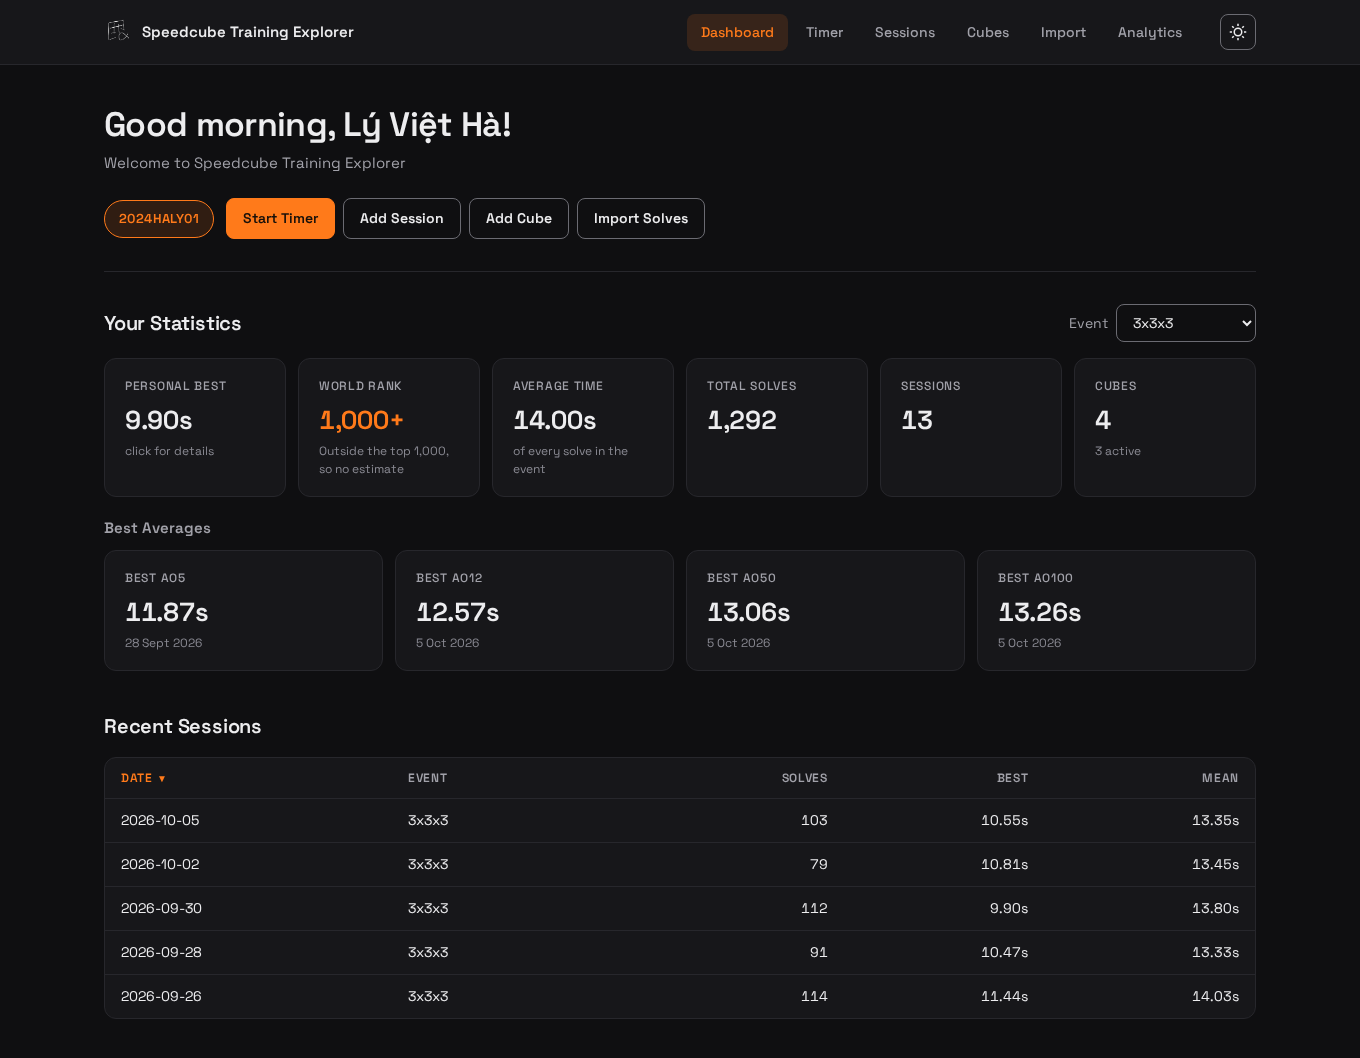
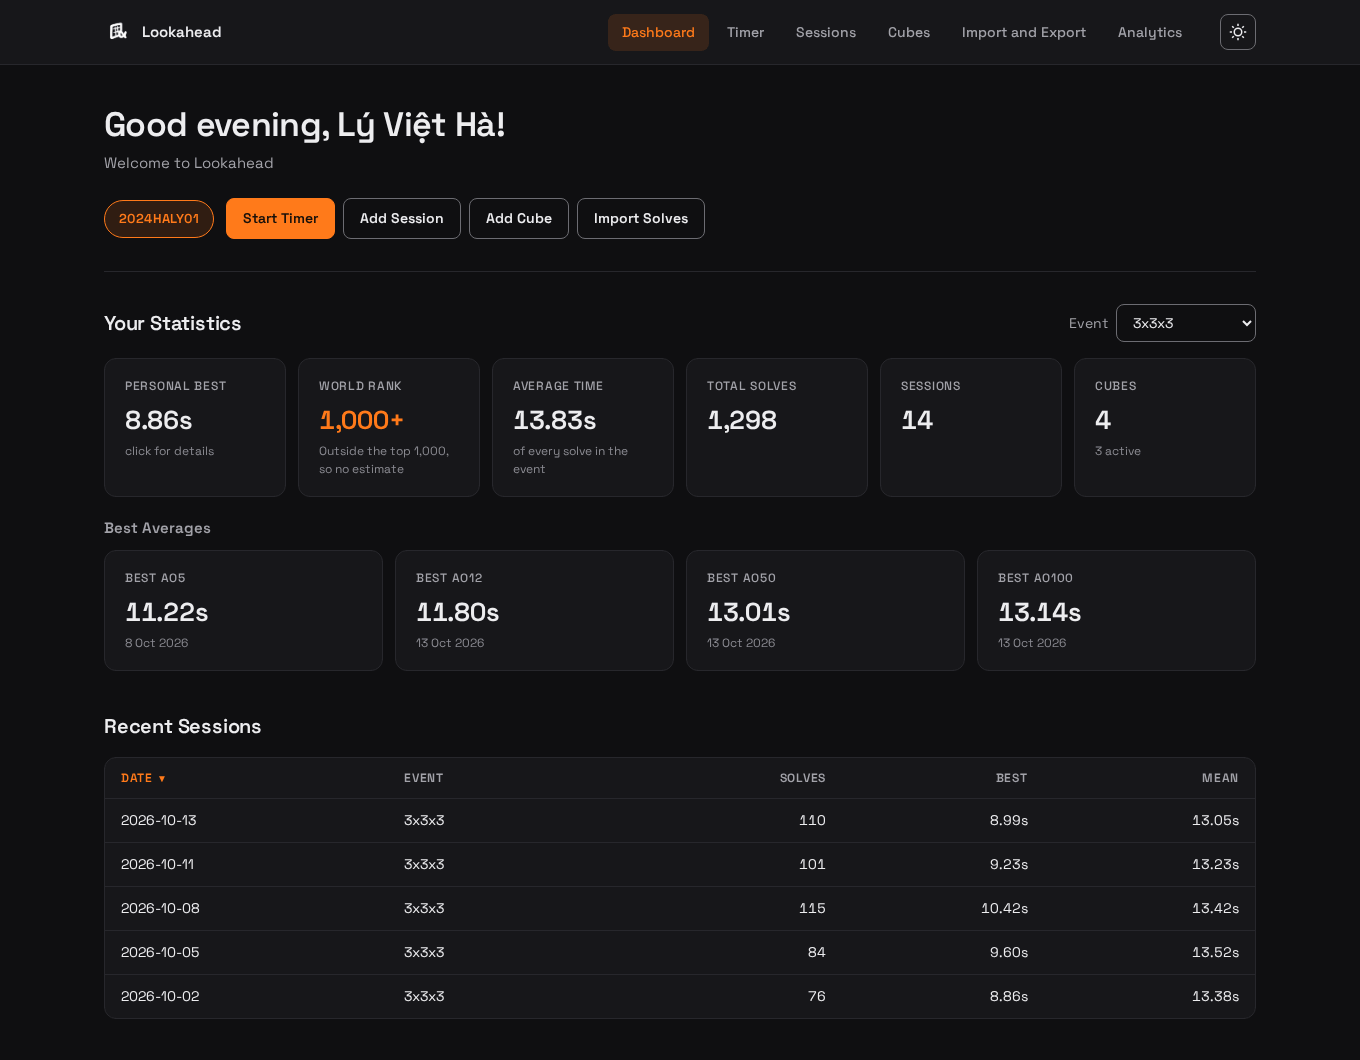
docs: describe sessions, cubes, and the WCA ID on the phone, and retake the screenshots
The README screenshots show the new Sessions tab, and the desktop app with its new name, logo, and Import and Export tab.

- The phone app's README lists what the Sessions tab, Cubes, and WCA ID do.

diff --git a/pwa/README.md b/pwa/README.md
@@ -27,10 +27,19 @@ It works offline after the first visit, and updates itself the next time you lea
   (its **Export backup** link) or from here, and **Make backup** saves one to share or keep.
   Restoring over what's here can be undone. The same file restores in the desktop app. The Timer
   tab reminds you when 100 solves, or a week's worth, aren't backed up yet.
-- **Sessions:** every session, newest first, with its best, Ao5, Ao12, and mean worked out
-  exactly as the desktop app does.
+- **Sessions:** every session, for one event or all of them, newest or oldest first, or by best
+  single or best Ao5, with its stats worked out exactly as the desktop app does. Tap a session to
+  see its best averages up to Ao100 and every solve (newest, fastest, or slowest first), change a
+  solve's penalty or note, delete it (with Undo), and type in solves timed somewhere else, such as
+  12.34 or 1:23.45. **Add session** makes one for today or an earlier day, and **Edit session**
+  changes its date, cube, and notes. A solve that never started stays a DNF (Regulation A4d2).
+- **Cubes:** on the More tab, add your cubes (brand, model, and when you bought them), pick one
+  for each session, and see each cube's solves, best, and best Ao5 in the event it's used most
+  for. A cube you stop using is retired, so its sessions keep it.
+- **WCA ID:** on the More tab, type your WCA ID and Lookahead looks up your name on the WCA
+  website (the only thing that needs the internet). It travels with your backups.
 
-Analytics and scores, cubes, CSTimer import, and picking an older session in the timer come next.
+Analytics and scores, CSTimer import, and picking an older session in the timer come next.
 
 ## Development
 

diff --git a/README.md b/README.md
@@ -6,9 +6,9 @@ Named after **lookahead**, the speedcubing skill of finding your next pieces whi
 
 **On your phone:** Lookahead is being rebuilt as an app for your phone's Home Screen that
 works offline, at https://havl-code.github.io/lookahead/. It's a preview for now: it has the
-timer, with WCA inspection, and lists your sessions with the same stats, and a backup moves your
-solves between it and the desktop app below. Analytics, scores, cubes, and CSTimer import are
-still desktop only. Once the phone app does everything the desktop app does, it replaces it.
+timer, with WCA inspection, your sessions and solves (to look through, edit, and add to), your
+cubes, and your WCA ID, and a backup moves your solves between it and the desktop app below.
+Analytics, scores, and CSTimer import are still desktop only. Once the phone app does everything the desktop app does, it replaces it.
 
 To try it, open the link on your phone, then add it to your Home Screen (in Safari, tap Share,
 then **Add to Home Screen**; in Chrome, tap **Install app**). It works offline from then on.
